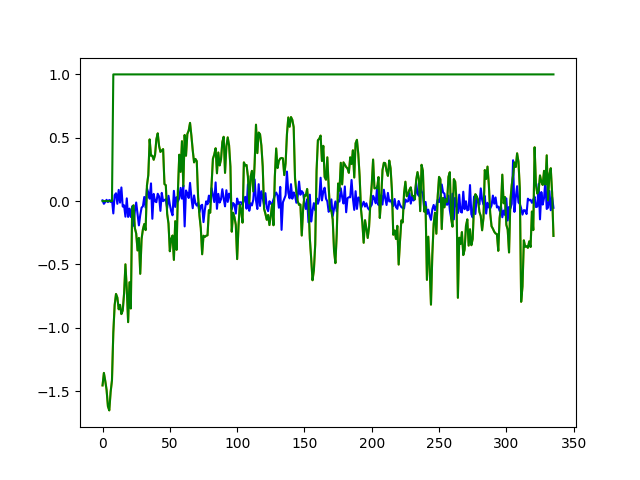
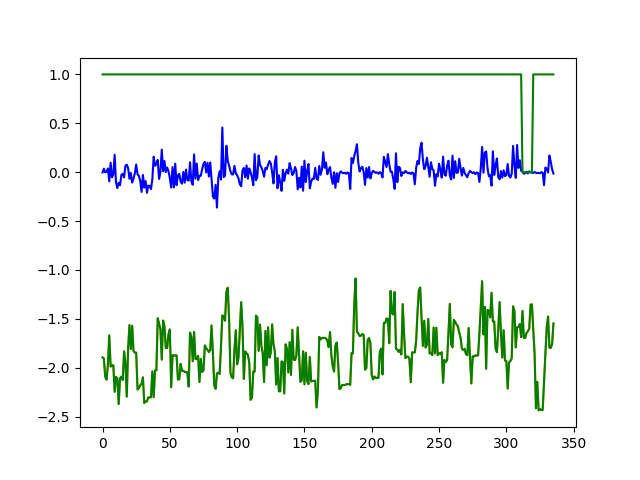
8.21 在feature 层 打分肯定没问题

diff --git a/main.py b/main.py
@@ -767,11 +767,13 @@ class base_framework:
 
                 pred = outputs.detach().cpu()
                 true = batch_y.detach().cpu()
+
+                channel = 4
+
                 if self.args.train == 0 and self.args.debugger == 1: 
                     import matplotlib.pyplot as plt 
                     idx = 0 
-                    channel = 2 
-                    plt.plot(batch_x[0,-336:,2].cpu().detach().numpy(), color='g') 
+                    plt.plot(batch_x[0,-336:,channel].cpu().detach().numpy(), color='g') 
                     # show loss by text
                     plt.savefig('before{}.png'.format(1))
                     plt.close()
@@ -784,9 +786,9 @@ class base_framework:
 
                     import matplotlib.pyplot as plt 
                     idx = 0 
-                    channel = 2 
-                    plt.plot(batch_x[0,-336:,2].cpu().detach().numpy(), color='g') 
-                    plt.plot(self.args.rec.reshape(batch_x.shape[0], batch_x.shape[2],batch_x.shape[1]).permute(0, 2, 1)[0,-336:,2].cpu().detach().numpy(), color='b') 
+                    channel = 4
+                    plt.plot(batch_x[0,-336:,channel].cpu().detach().numpy(), color='g') 
+                    plt.plot(self.args.rec.reshape(batch_x.shape[0], batch_x.shape[2],batch_x.shape[1]).permute(0, 2, 1)[0,-336:,channel].cpu().detach().numpy(), color='b') 
                     # show loss by text
                     plt.savefig('rec{}.png'.format(1))
                     plt.close()
@@ -797,13 +799,13 @@ class base_framework:
 
 
                 import matplotlib.pyplot as plt 
-                tmp = batch_x[0,:,2] - self.args.rec.reshape(batch_x.shape[0], batch_x.shape[2],batch_x.shape[1]).permute(0, 2, 1)[0,:,2]
+                tmp = batch_x[0,:,channel] - self.args.rec.reshape(batch_x.shape[0], batch_x.shape[2],batch_x.shape[1]).permute(0, 2, 1)[0,:,channel]
                 q1, q2 = torch.quantile(torch.abs(tmp), torch.tensor([0.25, 0.75],device=tmp.device))
-                plt.plot(batch_x[0,-336:,2].cpu().detach().numpy(), color='orange') 
+                plt.plot(batch_x[0,-336:,channel].cpu().detach().numpy(), color='orange') 
                 # batch_x[0,:,2][torch.abs(tmp) > (q2 - q1) * 1.5 + q2] = self.args.rec.reshape(batch_x.shape[0], batch_x.shape[2],batch_x.shape[1]).permute(0, 2, 1)[0,:,2][torch.abs(tmp) > (q2 - q1) * 1.5 + q2]
-                plt.plot(self.args.rec.reshape(batch_x.shape[0], batch_x.shape[2],batch_x.shape[1]).permute(0, 2, 1)[0,-336:,2].cpu().detach().numpy(), color='b') 
-                plt.plot(batch_x[0,-336:,2].cpu().detach().numpy(), color='g')
-                plt.plot(self.args.show.reshape(batch_x.shape[0], batch_x.shape[2],batch_x.shape[1]).permute(0, 2, 1)[0,-336:,2].cpu().detach().numpy(), color='g')
+                plt.plot(self.args.rec.reshape(batch_x.shape[0], batch_x.shape[2],batch_x.shape[1]).permute(0, 2, 1)[0,-336:,channel].cpu().detach().numpy(), color='b') 
+                plt.plot(batch_x[0,-336:,channel].cpu().detach().numpy(), color='g')
+                plt.plot(self.args.show.reshape(batch_x.shape[0], batch_x.shape[2],batch_x.shape[1]).permute(0, 2, 1)[0,-336:,channel].cpu().detach().numpy(), color='g')
 
                 plt.savefig(str(cn) + ".png")
                 # print(cn,"a",func.mse_loss(true[0,:,2], pred[0,:,2], reduction="mean"))
@@ -948,6 +950,7 @@ def parse_args():
     parser.add_argument("--beta", type=float, default=1.0)
     parser.add_argument("--gamma", type=float, default=0.15)
     parser.add_argument("--theta", type=float, default=1.5)
+    parser.add_argument("--rec_length_ratio", type=float, default=0.5)
     parser.add_argument("--feature_jittering", type=int, default=0)
     parser.add_argument("--rec_intra_feature", type=int, default=0)
     parser.add_argument("--rec_ori", type=int, default=0)

diff --git a/models/Source_Network.py b/models/Source_Network.py
@@ -141,13 +141,16 @@ class Refiner_block(nn.Module):
         # # print(torch.mean((out_1 - x) ** 2, dim=[2]).shape, torch.mean((out_1 - x) ** 2, dim=[2])[2]) 
         #* change here 
         rec_score = torch.mean((out_1 - x) ** 2, dim=[2])
+        print(out_1[4].median(), x[4].median())
         q = torch.tensor([0.25, 0.5, 0.75], device=out_1.device) 
         q1, q2, q3 = torch.quantile(rec_score, q, dim=-1) 
         tmp = out_1 - x 
-        tmp = (rec_score > (q3 + self.args.theta * (q3 - q1)).unsqueeze(-1)).unsqueeze(-1) * tmp
+        length_mask = torch.zeros_like(tmp) 
+        length_mask[:, int(tmp.shape[1] * self.args.rec_length_ratio):, :] = 1
+        tmp = (rec_score > 1).unsqueeze(-1) * tmp * length_mask
         self.args.mk = (rec_score < q2.unsqueeze(-1)).unsqueeze(-1)
         if self.args.train == 0 and self.args.debugger == 1: 
-            print(rec_score[2].shape, rec_score[2], (q3 + self.args.theta * (q3 - q1))[2])
+            print(rec_score[4].shape, rec_score[4], (q3 + self.args.theta * (q3 - q1))[4])
             self.args.show = self.args.show.reshape(rec_score.shape + (8,))
             self.args.show = self.args.show * (rec_score < (q3 + self.args.theta * (q3 - q1)).unsqueeze(-1)).unsqueeze(-1)
         # def vis(idx, channel): 
